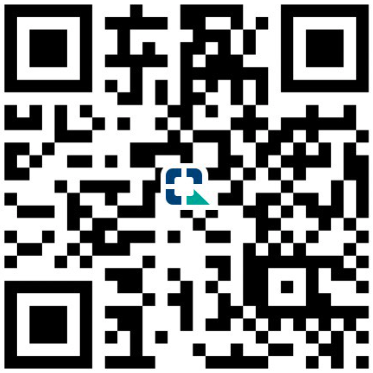
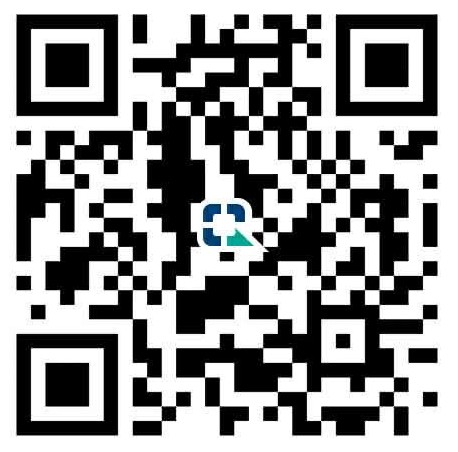
feat: change qr code

diff --git a/app/courses/[id]/page.tsx b/app/courses/[id]/page.tsx
@@ -50,6 +50,13 @@ function getEmbedSrc(url?: string | null) {
   return getYouTubeEmbedUrl(url) || getVimeoEmbedUrl(url)
 }
 
+function isValidVideoUrl(url?: string | null) {
+  if (!url) return false
+  const value = String(url).trim()
+  if (!value || value === "-") return false
+  return /^https?:\/\//i.test(value)
+}
+
 
 type ApiCourse = {
   id: string
@@ -221,10 +228,46 @@ export default function CourseDetailPage() {
   // Intro video 
   const [introSrc, setIntroSrc] = useState<string | null>(null)
   const introFrameRef = useRef<HTMLIFrameElement | null>(null)
+  const introSectionRef = useRef<HTMLDivElement | null>(null)
   const introPlayerRef = useRef<Player | null>(null)
   const [introReplayVisible, setIntroReplayVisible] = useState(false)
   const [introEmbedKey, setIntroEmbedKey] = useState(0)
+  const [introAutoplayNonce, setIntroAutoplayNonce] = useState(0)
   const isIntroVimeo = useMemo(() => introSrc?.includes("player.vimeo.com") ?? false, [introSrc])
+
+  const introPlayableSrc = useMemo(() => {
+    if (!introSrc) return null
+    if (!introAutoplayNonce) return introSrc
+    try {
+      const url = new URL(introSrc)
+      url.searchParams.set("autoplay", "1")
+      url.searchParams.set("playsinline", "1")
+      if (url.hostname.includes("youtube")) {
+        // Keep sound policy-friendly while still auto-starting playback.
+        url.searchParams.set("mute", "1")
+      }
+      return url.toString()
+    } catch {
+      return introSrc
+    }
+  }, [introSrc, introAutoplayNonce])
+
+  const handlePreviewClick = (event?: React.MouseEvent) => {
+    event?.stopPropagation()
+
+    if (introSrc) {
+      setIntroReplayVisible(false)
+      setIntroAutoplayNonce((n) => n + 1)
+      setIntroEmbedKey((key) => key + 1)
+      introSectionRef.current?.scrollIntoView({ behavior: "smooth", block: "center" })
+      return
+    }
+
+    const rawSample = (course?.sampleVideo || "").trim()
+    if (isValidVideoUrl(rawSample)) {
+      window.open(rawSample, "_blank", "noopener,noreferrer")
+    }
+  }
 
 
   useEffect(() => {
@@ -281,6 +324,10 @@ export default function CourseDetailPage() {
     const src = getEmbedSrc(course?.sampleVideo || null)
     setIntroSrc(src)
   }, [course?.sampleVideo])
+
+  useEffect(() => {
+    setIntroAutoplayNonce(0)
+  }, [introSrc])
 
   useEffect(() => {
     setIntroReplayVisible(false)
@@ -717,15 +764,15 @@ export default function CourseDetailPage() {
 
               <section className="lg:col-span-2 space-y-8 order-1">
                 <motion.div variants={fadeInUp} initial="initial" animate="animate" className="w-full max-w-full">
-                  <div className="mb-6">
+                  <div ref={introSectionRef} className="mb-6">
                     <AspectRatio ratio={16 / 9}>
                       <div className="group relative h-full w-full overflow-hidden rounded-2xl ring-1 ring-black/5 shadow-lg bg-black">
                     {introSrc ? (
                       <>
                         <iframe
-                          key={isIntroVimeo ? `intro-${introEmbedKey}` : "intro"}
+                          key={`intro-${introEmbedKey}-${introAutoplayNonce}`}
                           ref={introFrameRef}
-                          src={introSrc}
+                          src={introPlayableSrc || undefined}
                           className={`absolute inset-0 h-full w-full transition-opacity ${isIntroVimeo && introReplayVisible ? "pointer-events-none opacity-0" : "opacity-100"}`}
                           width="100%"
                           height="100%"
@@ -757,15 +804,6 @@ export default function CourseDetailPage() {
                           className="object-cover transition-transform duration-500 group-hover:scale-105"
                         />
                         <div className="absolute inset-0 bg-gradient-to-t from-black/60 via-black/25 to-transparent" />
-                        <div className="absolute inset-0 flex items-center justify-center">
-                          <Button
-                            size="lg"
-                            className="bg-primary hover:bg-primary/90 text-primary-foreground shadow-lg hover:shadow-xl rounded-xl px-6 py-6 ring-1 ring-white/20 transition-all"
-                          >
-                            <Play className="h-6 w-6 mr-2" />
-                            ดูตัวอย่าง
-                          </Button>
-                        </div>
                       </>
                     )}
                       </div>
@@ -905,7 +943,7 @@ export default function CourseDetailPage() {
                                           variant="ghost"
                                           size="sm"
                                           className="text-[#004B7D] hover:bg-[#004B7D1A] rounded-lg h-8 px-2"
-                                          onClick={(e) => e.stopPropagation()}
+                                          onClick={handlePreviewClick}
                                         >
                                           <Play className="h-4 w-4 sm:mr-1" />
                                           <span className="hidden sm:inline">ดูตัวอย่าง</span>

diff --git a/app/order-success/[id]/page.tsx b/app/order-success/[id]/page.tsx
@@ -1338,13 +1338,13 @@ export default function OrderSuccessPage() {
                         <span className="text-muted-foreground">เลขบัญชี</span>
                         <div className="flex items-center gap-2">
                           <span className="font-semibold tracking-wider text-foreground">
-                            131-1-20677-6
+                            061-3-33214-6
                           </span>
                           <Button
                             size="sm"
                             variant="outline"
                             onClick={() =>
-                              navigator.clipboard?.writeText("1311206776")
+                              navigator.clipboard?.writeText("0613332146")
                             }
                           >
                             คัดลอก
@@ -1355,7 +1355,7 @@ export default function OrderSuccessPage() {
                         <span className="text-muted-foreground">ชื่อบัญชี</span>
                         <div className="flex items-center gap-2">
                           <span className="font-medium text-foreground">
-                            อนุชิต ประทุมรัตน์
+                            ศรชัย น้อยลา
                           </span>
                           <Button
                             size="sm"
@@ -1372,13 +1372,13 @@ export default function OrderSuccessPage() {
                         <span className="text-muted-foreground">พร้อมเพย์</span>
                         <div className="flex items-center gap-2">
                           <span className="font-medium text-foreground">
-                            083-210-9685
+                            099-632-7669
                           </span>
                           <Button
                             size="sm"
                             variant="outline"
                             onClick={() =>
-                              navigator.clipboard?.writeText("0832109685")
+                              navigator.clipboard?.writeText("0996327669")
                             }
                           >
                             คัดลอก
